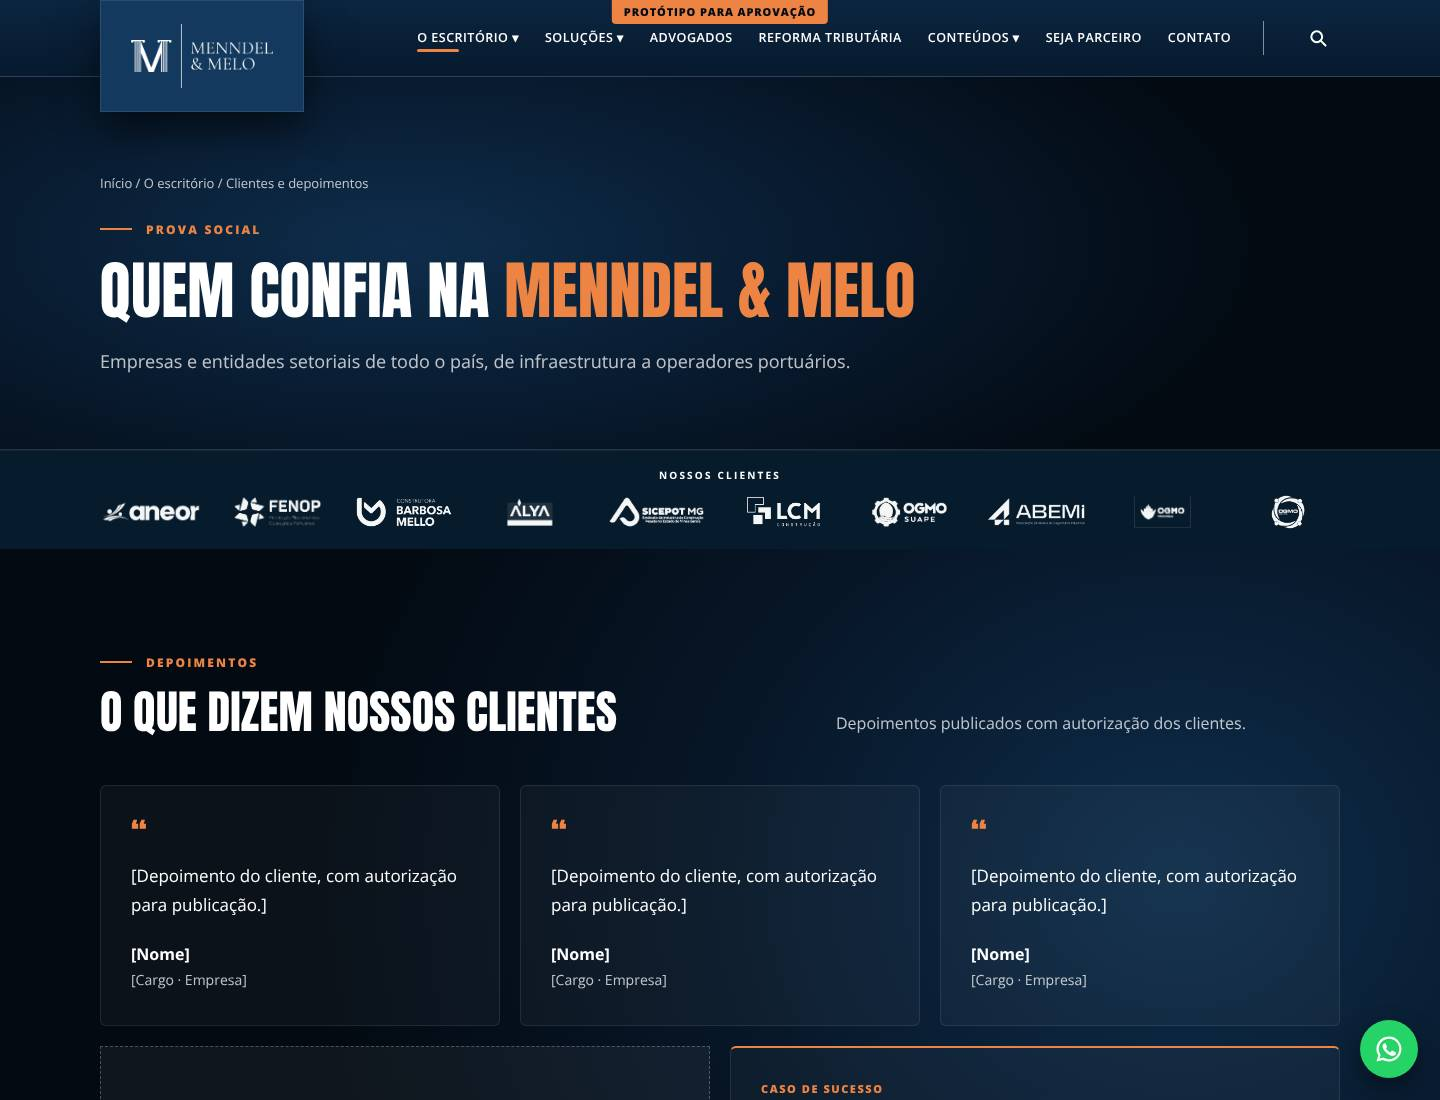
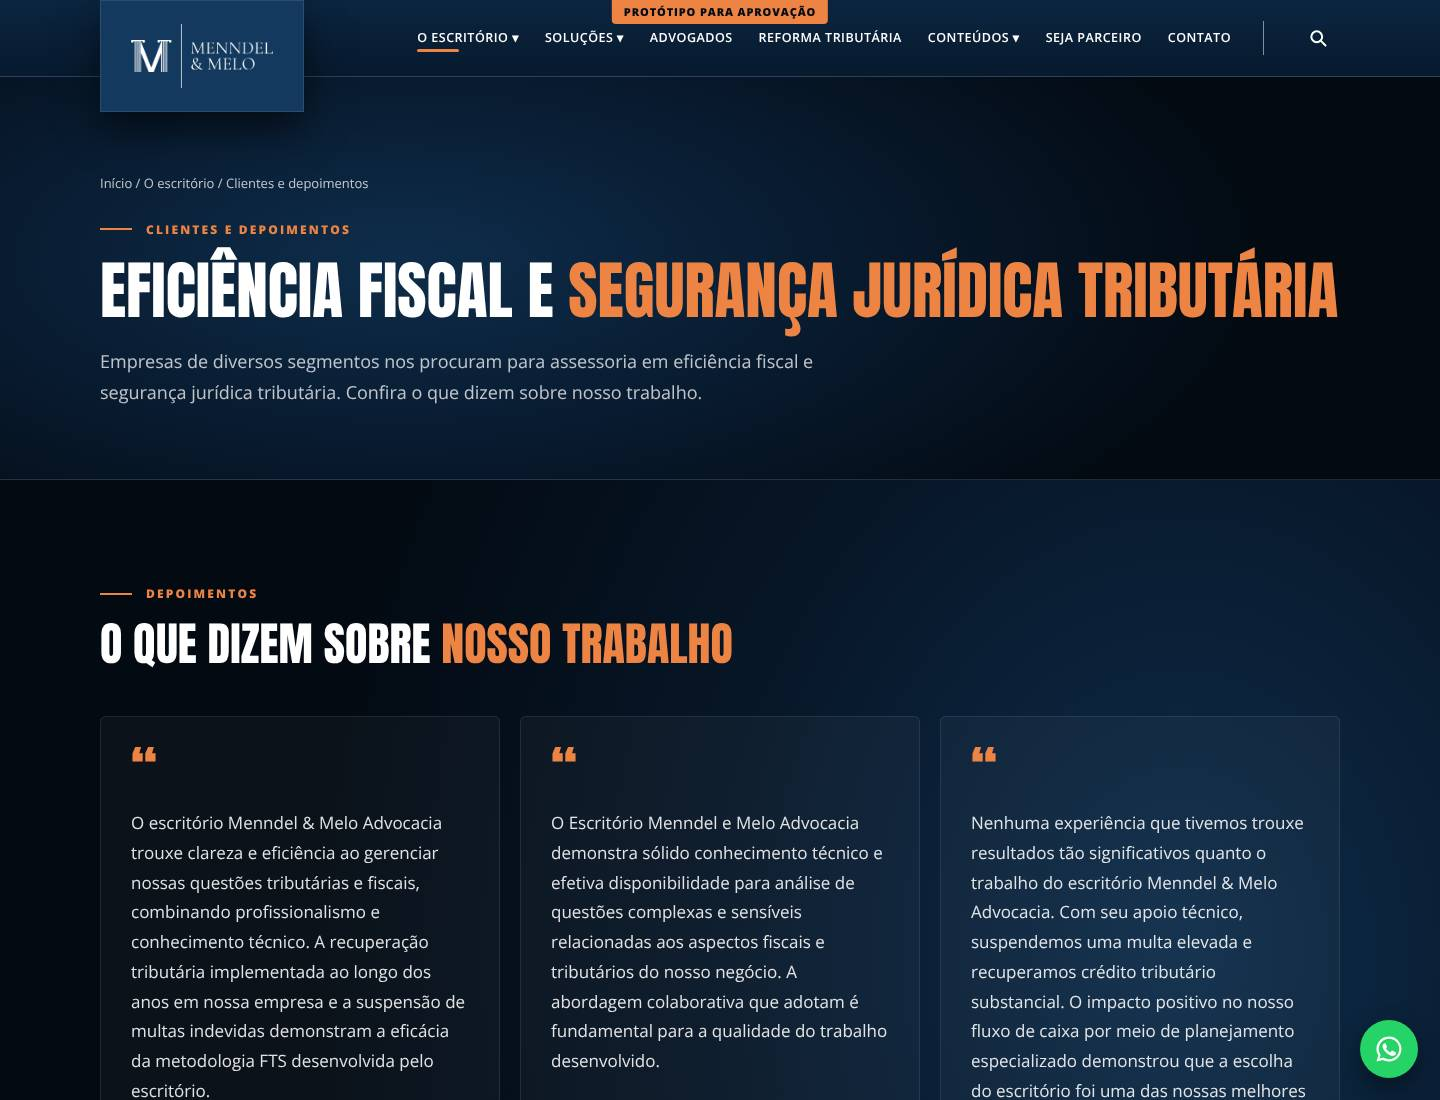
Site: depoimentos, entidades e clientes
Claude-Session: https://claude.ai/code/session_01RpM6zW2bMnmueP2JfNHt6J

diff --git a/site-menndel/clientes-e-depoimentos.html b/site-menndel/clientes-e-depoimentos.html
@@ -14,12 +14,12 @@
 <main id="conteudo">
 
 <section class="phero"><div class="wrap"><p class="crumb"><a href="home.html">Início</a> / <a href="quem-somos.html">O escritório</a> / Clientes e depoimentos</p>
-<p class="eyebrow">Prova social</p><h1 class="h1" style="margin-top:18px">Quem confia na <span class="hl">Menndel &amp; Melo</span></h1>
-<p class="lead">Empresas e entidades setoriais de todo o país, de infraestrutura a operadores portuários.</p></div></section>
-<div class="clients"><div class="wrap"><p>Nossos clientes</p><div class="row"><div><img src="assets/cliente-aneor.png" alt="ANEOR"></div><div><img src="assets/cliente-fenop.png" alt="FENOP"></div><div><img src="assets/cliente-barbosa-mello.png" alt="Barbosa Mello"></div><div><img src="assets/cliente-alya.png" alt="ALYA"></div><div><img src="assets/cliente-sicepot-mg.png" alt="SICEPOT MG"></div><div><img src="assets/cliente-lcm.png" alt="LCM"></div><div><img src="assets/cliente-ogmo-suape.png" alt="OGMO Suape"></div><div><img src="assets/cliente-abemi.png" alt="ABEMI"></div><div><img src="assets/cliente-ogmo-paranagua.png" alt="OGMO Paranaguá"></div><div><img src="assets/cliente-ogmo-santos.png" alt="OGMO Santos"></div></div></div></div>
-<section class="sec r"><div class="wrap"><div class="head-row"><div><p class="eyebrow">Depoimentos</p><h2 class="h2">O que dizem nossos clientes</h2></div><p>Depoimentos publicados com autorização dos clientes.</p></div>
-<div class="g3"><figure class="card" style="margin:0"><span class="num">“</span><blockquote style="margin:10px 0 0;font-size:17px;line-height:1.7">[Depoimento do cliente, com autorização para publicação.]</blockquote><figcaption style="margin-top:auto;padding-top:22px"><b>[Nome]</b><br><span class="muted" style="font-size:14px">[Cargo · Empresa]</span></figcaption></figure><figure class="card" style="margin:0"><span class="num">“</span><blockquote style="margin:10px 0 0;font-size:17px;line-height:1.7">[Depoimento do cliente, com autorização para publicação.]</blockquote><figcaption style="margin-top:auto;padding-top:22px"><b>[Nome]</b><br><span class="muted" style="font-size:14px">[Cargo · Empresa]</span></figcaption></figure><figure class="card" style="margin:0"><span class="num">“</span><blockquote style="margin:10px 0 0;font-size:17px;line-height:1.7">[Depoimento do cliente, com autorização para publicação.]</blockquote><figcaption style="margin-top:auto;padding-top:22px"><b>[Nome]</b><br><span class="muted" style="font-size:14px">[Cargo · Empresa]</span></figcaption></figure></div>
-<div class="g2" style="margin-top:20px"><div class="ph" style="aspect-ratio:16/9">[Depoimento em vídeo — opcional]</div><div class="card top"><span class="tag">Caso de sucesso</span><h3 class="h3">[Título do caso: problema e resultado]</h3><p>[Resumo do caso sem dados confidenciais: setor, desafio, solução aplicada e resultado.]</p><a class="more" href="#">Ler o caso →</a></div></div></div></section>
+<p class="eyebrow">Clientes e depoimentos</p><h1 class="h1" style="margin-top:18px">Eficiência fiscal e <span class="hl">segurança jurídica tributária</span></h1>
+<p class="lead">Empresas de diversos segmentos nos procuram para assessoria em eficiência fiscal e segurança jurídica tributária. Confira o que dizem sobre nosso trabalho.</p></div></section>
+<section class="sec r"><div class="wrap"><div class="head-row"><div><p class="eyebrow">Depoimentos</p><h2 class="h2">O que dizem sobre <span class="hl">nosso trabalho</span></h2></div></div>
+<div class="g2" style="grid-template-columns:repeat(auto-fit,minmax(min(100%,480px),1fr))"><figure class="card" style="margin:0"><span class="num" style="font-size:56px;line-height:.8">“</span><blockquote style="margin:14px 0 0;font-size:17px;line-height:1.75;color:rgba(255,255,255,.88)">O escritório Menndel &amp; Melo Advocacia trouxe clareza e eficiência ao gerenciar nossas questões tributárias e fiscais, combinando profissionalismo e conhecimento técnico. A recuperação tributária implementada ao longo dos anos em nossa empresa e a suspensão de multas indevidas demonstram a eficácia da metodologia FTS desenvolvida pelo escritório.</blockquote><figcaption style="margin-top:auto;padding-top:24px;border-top:1px solid var(--line);margin-top:24px"><b class="t" style="font-size:20px">Marcelo Rodrigues da Silva</b><br><span class="hl" style="font-size:14px;font-weight:700">CEO do Grupo NR Distribuidora</span></figcaption></figure><figure class="card" style="margin:0"><span class="num" style="font-size:56px;line-height:.8">“</span><blockquote style="margin:14px 0 0;font-size:17px;line-height:1.75;color:rgba(255,255,255,.88)">O Escritório Menndel e Melo Advocacia demonstra sólido conhecimento técnico e efetiva disponibilidade para análise de questões complexas e sensíveis relacionadas aos aspectos fiscais e tributários do nosso negócio. A abordagem colaborativa que adotam é fundamental para a qualidade do trabalho desenvolvido.</blockquote><figcaption style="margin-top:auto;padding-top:24px;border-top:1px solid var(--line);margin-top:24px"><b class="t" style="font-size:20px">Fabio Davidovici</b><br><span class="hl" style="font-size:14px;font-weight:700">CFO &amp; COO da Aramis Menswear</span></figcaption></figure><figure class="card" style="margin:0"><span class="num" style="font-size:56px;line-height:.8">“</span><blockquote style="margin:14px 0 0;font-size:17px;line-height:1.75;color:rgba(255,255,255,.88)">Nenhuma experiência que tivemos trouxe resultados tão significativos quanto o trabalho do escritório Menndel &amp; Melo Advocacia. Com seu apoio técnico, suspendemos uma multa elevada e recuperamos crédito tributário substancial. O impacto positivo no nosso fluxo de caixa por meio de planejamento especializado demonstrou que a escolha do escritório foi uma das nossas melhores decisões estratégicas.</blockquote><figcaption style="margin-top:auto;padding-top:24px;border-top:1px solid var(--line);margin-top:24px"><b class="t" style="font-size:20px">Fernando Freitas</b><br><span class="hl" style="font-size:14px;font-weight:700">CEO Engesoftware</span></figcaption></figure><figure class="card" style="margin:0"><span class="num" style="font-size:56px;line-height:.8">“</span><blockquote style="margin:14px 0 0;font-size:17px;line-height:1.75;color:rgba(255,255,255,.88)">Graças à expertise e ao empenho do escritório Menndel &amp; Melo Advocacia, obtivemos êxito na suspensão de multa por compensação não homologada e na recuperação de créditos tributários substanciais. O diferencial foi a atenção dedicada pelo escritório ao nosso caso.</blockquote><figcaption style="margin-top:auto;padding-top:24px;border-top:1px solid var(--line);margin-top:24px"><b class="t" style="font-size:20px">Renan Cid</b><br><span class="hl" style="font-size:14px;font-weight:700">CEO da Winner Indústria</span></figcaption></figure></div></div></section>
+<section class="sec c"><div class="wrap"><div class="head-row"><div><p class="eyebrow">Entidades de classe</p><h2 class="h2">Conheça nossas principais <span class="hl">entidades de classe</span></h2></div></div><div class="g4" style="grid-template-columns:repeat(auto-fit,minmax(170px,1fr))"><div class="card" style="align-items:center;justify-content:center;height:120px;padding:20px"><img src="assets/cliente-aneor.png" alt="ANEOR" style="max-height:52px;max-width:100%;object-fit:contain"></div><div class="card" style="align-items:center;justify-content:center;height:120px;padding:20px"><img src="assets/cliente-fenop.png" alt="FENOP" style="max-height:52px;max-width:100%;object-fit:contain"></div><div class="card" style="align-items:center;justify-content:center;height:120px;padding:20px"><img src="assets/cliente-sicepot-mg.png" alt="SICEPOT MG" style="max-height:52px;max-width:100%;object-fit:contain"></div><div class="card" style="align-items:center;justify-content:center;height:120px;padding:20px"><img src="assets/cliente-abemi.png" alt="ABEMI" style="max-height:52px;max-width:100%;object-fit:contain"></div></div></div></section>
+<section class="sec r"><div class="wrap"><div class="head-row"><div><p class="eyebrow">Clientes</p><h2 class="h2">Conheça alguns de nossos <span class="hl">principais clientes</span></h2></div></div><div class="g4" style="grid-template-columns:repeat(auto-fit,minmax(170px,1fr))"><div class="card" style="align-items:center;justify-content:center;height:120px;padding:20px"><img src="assets/cliente-barbosa-mello.png" alt="Barbosa Mello" style="max-height:52px;max-width:100%;object-fit:contain"></div><div class="card" style="align-items:center;justify-content:center;height:120px;padding:20px"><img src="assets/cliente-alya.png" alt="ALYA" style="max-height:52px;max-width:100%;object-fit:contain"></div><div class="card" style="align-items:center;justify-content:center;height:120px;padding:20px"><img src="assets/cliente-lcm.png" alt="LCM" style="max-height:52px;max-width:100%;object-fit:contain"></div><div class="card" style="align-items:center;justify-content:center;height:120px;padding:20px"><img src="assets/cliente-ogmo-suape.png" alt="OGMO Suape" style="max-height:52px;max-width:100%;object-fit:contain"></div><div class="card" style="align-items:center;justify-content:center;height:120px;padding:20px"><img src="assets/cliente-ogmo-paranagua.png" alt="OGMO Paranaguá" style="max-height:52px;max-width:100%;object-fit:contain"></div><div class="card" style="align-items:center;justify-content:center;height:120px;padding:20px"><img src="assets/cliente-ogmo-santos.png" alt="OGMO Santos" style="max-height:52px;max-width:100%;object-fit:contain"></div></div></div></section>
 <section class="sec c tight"><div class="wrap"><div class="nums"><div><b>+500</b><span>Casos de sucesso</span></div><div><b>+4bi</b><span>Recuperados</span></div><div><b>+20</b><span>Estados de atuação</span></div><div><b>+15</b><span>Entidades representadas ou parceiras</span></div><div><b>+45</b><span>Publicações técnicas</span></div></div></div></section>
 <section class="cta"><div class="wrap"><h2>Uma conversa técnica com quem conhece o <span class="hl">seu setor</span></h2><div class="btns" style="margin:0"><a class="btn" href="contato.html">Fale com um especialista</a></div></div></section>
 </main>
